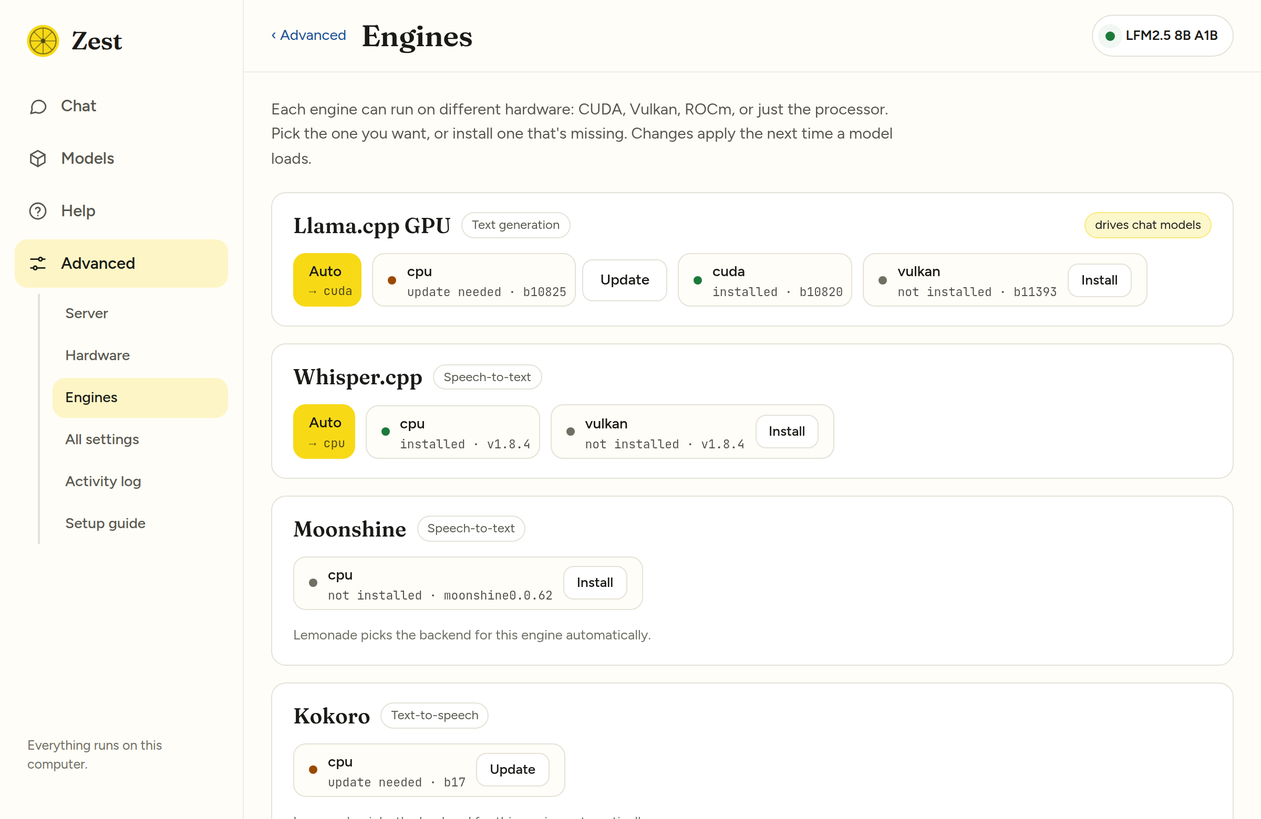
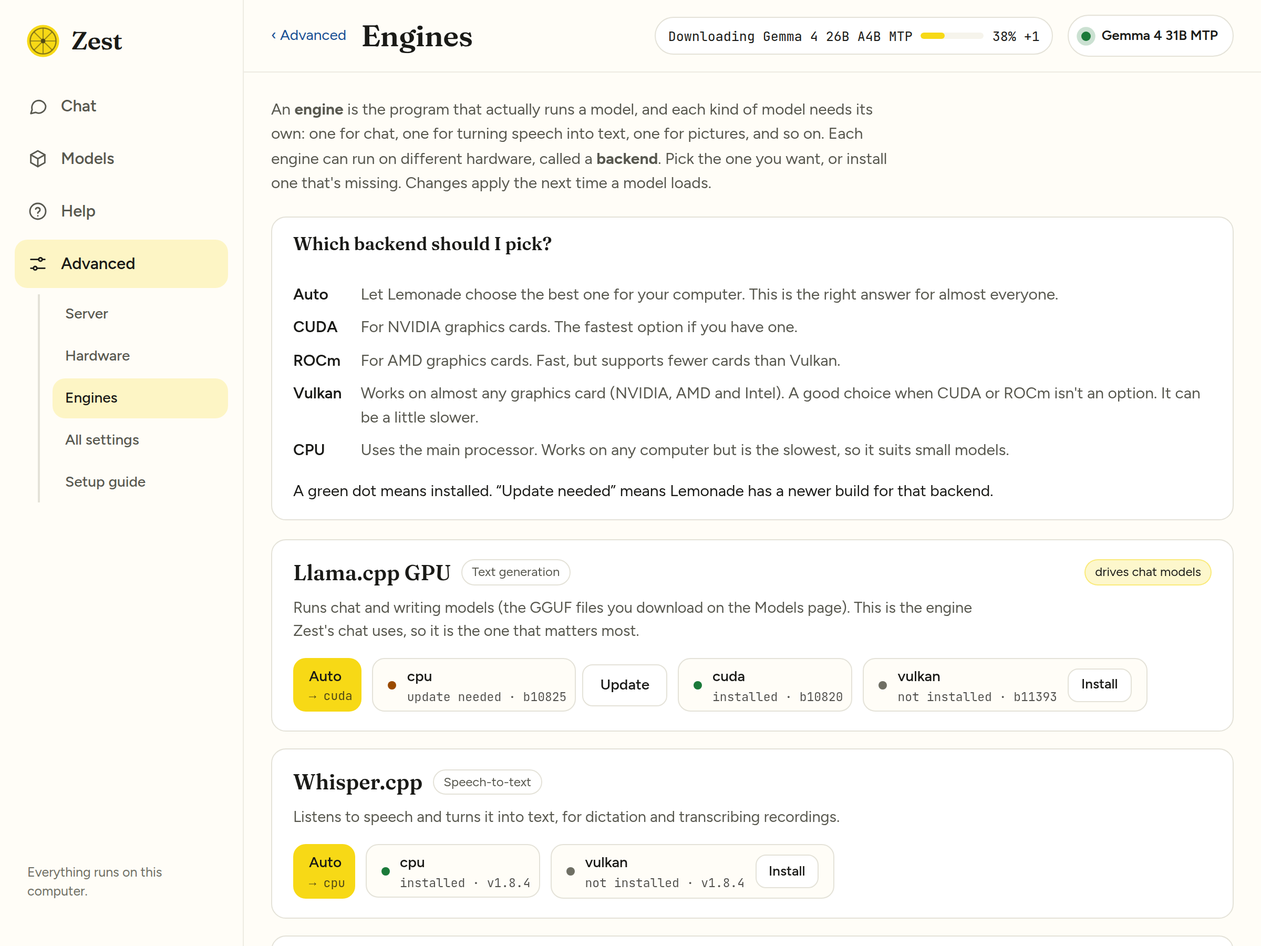
Zest 2.1.1: load/unload/reload/delete models, activity log on Server page, Engines explained
- Models: Load now, Reload and Unload on the card; delete from Details with confirmation
- Server page shows a clear message when the program behind it is out of date, instead of staying blank
- Activity log moved into the Server page
- Engines page explains what engines and backends are, with a plain guide
- README and screenshots updated

diff --git a/zest/index.html b/zest/index.html
@@ -250,6 +250,14 @@ dialog label{display:grid;gap:6px;font-size:13px;color:var(--muted)}
 .bkp header{display:flex;gap:10px;align-items:center;flex-wrap:wrap}
 .bkp h3{margin:0;font:600 20px var(--serif)}
 .bkp .grow{flex:1}
+.bkp .eng{margin:-4px 0 0;color:var(--muted);font-size:14.5px;max-width:70ch}
+.bkhelp{padding:0 20px;margin:0 0 18px}
+.bkhelp summary{cursor:pointer;list-style:none;min-height:48px;display:flex;align-items:center;font:600 17px var(--serif)}
+.bkhelp summary::-webkit-details-marker{display:none}
+.bkdl{display:grid;grid-template-columns:max-content 1fr;gap:8px 18px;margin:0 0 10px}
+.bkdl dt{font-weight:600}.bkdl dd{margin:0;color:var(--muted)}
+@media (max-width:640px){.bkdl{grid-template-columns:1fr;gap:2px}.bkdl dd{margin-bottom:8px}}
+.srvlog{margin-top:18px;display:grid;gap:12px}
 .bopts{display:flex;gap:10px;flex-wrap:wrap}
 .bo{display:inline-flex;align-items:center;gap:10px;min-height:48px;padding:6px 8px 6px 14px;border:1px solid var(--line);border-radius:12px;background:var(--bg);color:var(--text);font-size:14px;font-weight:550;text-align:left}
 button.bo:hover{border-color:var(--faint)}
@@ -504,6 +512,9 @@ details.aegrp>summary small{margin-left:auto;font:11.5px var(--mono);color:var(-
 .wfoot{text-align:center;font-size:13.5px}
 /* ---------- help, advanced, server ---------- */
 
+.mctl{display:flex;gap:8px;flex-wrap:wrap;margin-top:-6px}
+.mctl .btn{min-height:36px;padding:0 14px;font-size:13.5px}
+.btn.danger{color:var(--bad);border-color:currentColor}
 .pagebtns{display:flex;gap:10px;flex-wrap:wrap;align-items:center}
 #pickdlg{max-width:min(640px,calc(100vw - 32px));max-height:calc(100dvh - 32px)}
 #pickdlg form{padding:0;display:flex;flex-direction:column;max-height:calc(100dvh - 34px)}
@@ -602,7 +613,7 @@ h4.sub{margin:10px 0 0;font:600 13px var(--sans);color:var(--muted);text-transfo
 .logbar input:focus{border-color:var(--lemon)}
 .logbar label{display:flex;align-items:center;gap:8px;font-size:13px;color:var(--muted);min-height:40px}
 .logbar input[type=checkbox]{accent-color:var(--lemon);width:18px;height:18px}
-.log{font:12.5px/1.65 var(--mono);background:var(--surface);border:1px solid var(--line);border-radius:var(--radius);padding:14px 16px;overflow:auto;flex:1;min-height:300px;white-space:pre-wrap;overflow-wrap:anywhere}
+.log{font:12.5px/1.65 var(--mono);background:var(--surface);border:1px solid var(--line);border-radius:var(--radius);padding:14px 16px;overflow:auto;height:380px;white-space:pre-wrap;overflow-wrap:anywhere}
 .log .ln{display:block}.log .Warn{color:var(--warn)}.log .Error{color:var(--bad)}.log .Info{color:var(--muted)}
 .log .tag{color:var(--lemon-text)}
 
@@ -652,7 +663,6 @@ h4.sub{margin:10px 0 0;font:600 13px var(--sans);color:var(--muted);text-transfo
         <button data-view="hardware"><span>Hardware</span></button>
         <button data-view="backends"><span>Engines</span></button>
         <button data-view="settings"><span>All settings</span></button>
-        <button data-view="logs"><span>Activity log</span></button>
         <button data-view="setup"><span>Setup guide</span></button>
       </div>
     </div>
@@ -730,7 +740,17 @@ h4.sub{margin:10px 0 0;font:600 13px var(--sans);color:var(--muted);text-transfo
 
     <!-- BACKENDS -->
     <section class="view" id="v-backends"><div class="pad"><div class="wrap">
-      <p class="lede">Each engine can run on different hardware: CUDA, Vulkan, ROCm, or just the processor. Pick the one you want, or install one that's missing. Changes apply the next time a model loads.</p>
+      <p class="lede">An <b>engine</b> is the program that actually runs a model, and each kind of model needs its own: one for chat, one for turning speech into text, one for pictures, and so on. Each engine can run on different hardware, called a <b>backend</b>. Pick the one you want, or install one that's missing. Changes apply the next time a model loads.</p>
+      <details class="panel bkhelp" open><summary>Which backend should I pick?</summary>
+        <dl class="bkdl">
+          <dt>Auto</dt><dd>Let Lemonade choose the best one for your computer. This is the right answer for almost everyone.</dd>
+          <dt>CUDA</dt><dd>For NVIDIA graphics cards. The fastest option if you have one.</dd>
+          <dt>ROCm</dt><dd>For AMD graphics cards. Fast, but supports fewer cards than Vulkan.</dd>
+          <dt>Vulkan</dt><dd>Works on almost any graphics card (NVIDIA, AMD and Intel). A good choice when CUDA or ROCm isn't an option. It can be a little slower.</dd>
+          <dt>CPU</dt><dd>Uses the main processor. Works on any computer but is the slowest, so it suits small models.</dd>
+        </dl>
+        <p class="note">A green dot means installed. “Update needed” means Lemonade has a newer build for that backend.</p>
+      </details>
       <div id="bk"></div>
     </div></div></section>
 
@@ -741,7 +761,17 @@ h4.sub{margin:10px 0 0;font:600 13px var(--sans);color:var(--muted);text-transfo
     <section class="view" id="v-advanced"><div class="pad"><div class="wrap" id="advhub"></div></div></section>
 
     <!-- SERVER -->
-    <section class="view" id="v-server"><div class="pad"><div class="wrap" id="server"></div></div></section>
+    <section class="view" id="v-server"><div class="pad"><div class="wrap"><div id="server"></div>
+      <section class="panel srvlog" id="srvlog">
+        <div class="connhead"><h3>Activity log</h3><span class="help2" style="margin:0">What the helper has been doing. Useful when something goes wrong.</span></div>
+        <div class="logbar">
+          <input type="search" id="logq" placeholder="Filter log lines" aria-label="Filter log lines">
+          <label><input type="checkbox" id="logauto" checked> Follow</label>
+          <button class="btn" id="logref" type="button">Refresh</button>
+        </div>
+        <div class="log" id="log" tabindex="0" role="log"></div>
+      </section>
+    </div></div></section>
 
     <!-- SETUP -->
     <section class="view" id="v-setup"><div class="pad"><div class="wrap" id="setup"></div></div></section>
@@ -753,15 +783,6 @@ h4.sub{margin:10px 0 0;font:600 13px var(--sans);color:var(--muted);text-transfo
       <div id="settings"></div>
     </div></div></section>
 
-    <!-- LOGS -->
-    <section class="view" id="v-logs"><div class="pad" style="display:flex;flex-direction:column;flex:1;min-height:0"><div class="wrap" style="display:flex;flex-direction:column;flex:1;min-height:0">
-      <div class="logbar">
-        <input type="search" id="logq" placeholder="Filter log lines" aria-label="Filter log lines">
-        <label><input type="checkbox" id="logauto" checked> Follow</label>
-        <button class="btn" id="logref">Refresh</button>
-      </div>
-      <div class="log" id="log" tabindex="0" role="log"></div>
-    </div></div></section>
   </main>
 </div>
 
@@ -770,6 +791,14 @@ h4.sub{margin:10px 0 0;font:600 13px var(--sans);color:var(--muted);text-transfo
     <header><h3>Get a model from Hugging Face</h3></header>
     <div class="odbody" id="hfbody"></div>
     <div class="actions"><button type="button" class="btn" id="hfcancel">Cancel</button><button type="button" class="btn primary" id="hfdo" disabled>Download</button></div>
+  </form>
+</dialog>
+<dialog id="deldlg">
+  <form method="dialog">
+    <h3 id="delname">Delete this model?</h3>
+    <p id="deltext" style="margin:0;color:var(--muted)"></p>
+    <p class="errline" id="delerr" hidden></p>
+    <div class="actions"><button class="btn" value="cancel" formnovalidate>Keep it</button><button class="btn danger" value="ok" id="delok">Delete</button></div>
   </form>
 </dialog>
 <dialog id="instdlg">
@@ -821,6 +850,7 @@ const store = {
   set(k, v){ try{ localStorage.setItem(k, JSON.stringify(v)); }catch{} }
 };
 const ICON = {
+  reload:'<svg class="i" viewBox="0 0 24 24" style="width:15px;height:15px"><path d="M20 12a8 8 0 1 1-2.3-5.7M20 4v5h-5"/></svg>',
   copy:'<svg class="i" viewBox="0 0 24 24" style="width:15px;height:15px"><rect x="9" y="9" width="11" height="11" rx="2"/><path d="M5 15V6a2 2 0 0 1 2-2h8"/></svg>',
   trash:'<svg class="i" viewBox="0 0 24 24" style="width:16px;height:16px"><path d="M4 7h16M10 11v6M14 11v6M6 7l1 13h10l1-13M9 7V4h6v3"/></svg>',
   stop:'<svg class="i" viewBox="0 0 24 24"><rect x="6" y="6" width="12" height="12" rx="2" fill="currentColor"/></svg>',
@@ -853,8 +883,8 @@ async function api(path, opts={}){
 }
 
 /* ======================= navigation ======================= */
-const TITLES = {welcome:"Welcome", chat:"Chat", models:"Models", help:"Help", advanced:"Advanced", server:"Server", hardware:"Hardware", backends:"Engines", settings:"All settings", logs:"Activity log", setup:"Setup guide"};
-const ADV = ["advanced","server","hardware","backends","settings","logs","setup"];
+const TITLES = {welcome:"Welcome", chat:"Chat", models:"Models", help:"Help", advanced:"Advanced", server:"Server", hardware:"Hardware", backends:"Engines", settings:"All settings", setup:"Setup guide"};
+const ADV = ["advanced","server","hardware","backends","settings","setup"];
 function show(v){
   S.view = v;
   $$(".view").forEach(el => el.classList.toggle("active", el.id === "v-"+v));
@@ -875,8 +905,8 @@ function show(v){
   if(v === "settings") loadSettings();
   if(v === "setup" || v === "welcome") refreshSetup(true);
   $(".app").classList.toggle("focus", v === "welcome");
-  if(v === "logs") loadLogs();
   if(v === "server") srvShow();
+  if(v === "server" && pendingLogScroll){ pendingLogScroll = false; setTimeout(() => $("#srvlog").scrollIntoView({block:"start"}), 1200); }
   if(v === "help") renderHelp();
   if(v === "advanced") renderAdvanced();
 }
@@ -1293,19 +1323,23 @@ function cardHTML(m){
       : S.dlSupported === false ? `<button class="btn" data-copycmd="${esc(m.id)}">${ICON.copy} Copy download command</button>`
       : `<button class="btn primary" data-dl="${esc(m.id)}">Get it${m.size ? " · " + (m.size < 10 ? m.size.toFixed(1) : Math.round(m.size)) + " GB" : ""}</button>`;
   } else act = isLoaded ? `<button class="btn primary" data-chat="${esc(m.id)}">Chat with it</button>` : `<button class="btn primary" data-use="${esc(m.id)}">Use this one</button>`;
+  const busy = S.loadingModel === m.id;
+  const ctl = !m.downloaded ? "" : `<div class="mctl">${isLoaded
+    ? `<button class="btn" data-reload="${esc(m.id)}" ${S.loadingModel ? "disabled" : ""}>${ICON.reload} Reload</button><button class="btn" data-unload="${esc(m.id)}" ${S.loadingModel ? "disabled" : ""}>Unload</button>`
+    : `<button class="btn" data-load="${esc(m.id)}" ${S.loadingModel ? "disabled" : ""}>${busy ? "Loading…" : "Load now"}</button>`}</div>`;
   return `<article class="card ${isLoaded?"loaded":""}" data-id="${esc(m.id)}">
     <div class="ctop"><h3>${esc(friendly(m))}</h3>${isLoaded?'<span class="chip ok">In use</span>':m.downloaded?'<span class="chip">On this computer</span>':""}</div>
     <p class="what">${esc(whatFor(m))}</p>
     <div class="row"><span>${m.size ? `${sizeWord(m.size)} <span class="mono num">· ${m.size.toFixed(m.size<10?1:0)} GB</span>` : ""}</span></div>
     ${f ? `<div><div class="fit ${f.cls}" role="img" aria-label="${esc(f.note)}"><i style="width:${f.pct}%"></i></div><div class="fitnote ${f.cls}" style="margin-top:6px">${esc(f.note)}</div></div>` : ""}
-    <div class="act">${act}</div>
+    <div class="act">${act}</div>${ctl}
     <details class="more"><summary>Details</summary>
       <div class="mbody"><div class="tags">${tags}</div>
         <div class="mono mid">${esc(m.id)}</div>
         ${m.checkpoint ? `<div class="mono mid">${esc(String(m.checkpoint).split("\n")[0])}</div>` : ""}
         ${m.context_length ? `<div class="mid">Remembers up to ${fmtTok(m.context_length)} tokens of conversation</div>` : ""}
         ${savedLine(m)}
-        <div class="dact">${m.downloaded ? `<button class="btn" data-opts="${esc(m.id)}">${ICON.sliders} Settings for this model</button>${isLoaded ? `<button class="btn" data-unload="${esc(m.id)}">Stop using it</button>` : ""}` : ""}</div>
+        <div class="dact">${m.downloaded ? `<button class="btn" data-opts="${esc(m.id)}">${ICON.sliders} Settings for this model</button>${isLoaded ? `` : ""}<button class="btn danger" data-delete="${esc(m.id)}">${ICON.trash} Delete from this computer</button>` : ""}</div>
       </div></details>
   </article>`;
 }
@@ -1336,9 +1370,36 @@ $("#v-models").addEventListener("click", async e => {
   else if(t.dataset.canceldl) cancelDownload(t.dataset.canceldl);
   else if(t.dataset.use) useModel(t.dataset.use, true);
   else if(t.dataset.opts) openOptions(t.dataset.opts);
-  else if(t.dataset.unload){ t.disabled = true; try{ await api("/api/v1/unload", {method:"POST", headers:{"Content-Type":"application/json"}, body:JSON.stringify({model_name:t.dataset.unload})}); toast("Done. The model has been put away."); }catch(err){ toast(err.message); } await tick(); renderModels(); }
+  else if(t.dataset.unload){ t.disabled = true; try{ await api("/api/v1/unload", {method:"POST", headers:{"Content-Type":"application/json"}, body:JSON.stringify({model_name:t.dataset.unload})}); toast("Unloaded. The model's memory is free again."); }catch(err){ toast(err.message); } await loadModels(); await tick(); renderModels(); }
+  else if(t.dataset.reload || t.dataset.load) loadModelNow(t.dataset.reload || t.dataset.load);
+  else if(t.dataset.delete) askDelete(t.dataset.delete);
   else if(t.dataset.chat) useModel(t.dataset.chat, true);
   else if(t.dataset.copycmd){ navigator.clipboard?.writeText("lemonade pull " + t.dataset.copycmd); toast("Copied: lemonade pull " + t.dataset.copycmd); }
+});
+
+
+/* ======================= delete a model ======================= */
+let pendingDelete = null;
+function askDelete(id){
+  const m = S.models.find(x => x.id === id); if(!m) return;
+  pendingDelete = id; $("#delerr").hidden = true; $("#delok").disabled = false; $("#delok").textContent = "Delete";
+  $("#delname").textContent = "Delete " + friendly(m) + "?";
+  const size = m.size ? ` and frees about ${m.size < 10 ? m.size.toFixed(1) : Math.round(m.size)} GB of disk` : "";
+  $("#deltext").innerHTML = `This removes the model's files from this computer${size}. You can download it again later.${id === S.loaded ? " It is in use now, so Zest will unload it first." : ""}`;
+  $("#deldlg").showModal();
+}
+$("#deldlg form").addEventListener("submit", async e => {
+  if(e.submitter?.value !== "ok" || !pendingDelete) return;
+  e.preventDefault();
+  const id = pendingDelete, b = $("#delok"); b.disabled = true; b.textContent = "Deleting…";
+  try{
+    if(S.loaded === id) await api("/api/v1/unload", {method:"POST", headers:{"Content-Type":"application/json"}, body:JSON.stringify({model_name:id})});
+    await api("/api/v1/delete", {method:"POST", headers:{"Content-Type":"application/json"}, body:JSON.stringify({model_name:id})});
+    if(S.model === id) S.model = null;
+    $("#deldlg").close(); toast("Deleted " + friendly(S.models.find(x => x.id === id) || id));
+    await loadModels(); await tick(); syncModelSelect(); if(S.view === "models") renderModels();
+  }catch(err){ $("#delerr").textContent = "Couldn't delete it: " + err.message; $("#delerr").hidden = false; b.disabled = false; b.textContent = "Try again"; }
+  pendingDelete = null;
 });
 
 /* ======================= get a model from Hugging Face ======================= */
@@ -2147,11 +2208,10 @@ $("#help").addEventListener("click", async e => {
   if(b.dataset.hact === "restart"){ b.disabled = true; try{ await api("/ui/engine/restart", {method:"POST", headers:{"Content-Type":"application/json"}, body:"{}"}); toast("Restarting. This takes a few seconds."); }catch(err){ toast(err.message); } b.disabled = false; }
 });
 const ADV_CARDS = [
-  ["server", "Server", "Let other apps use your models, like opencode, Hermes or any chat app. See who is asking, live."],
+  ["server", "Server", "Let other apps use your models, like opencode, Hermes or any chat app. See who is asking, live, and read the activity log."],
   ["hardware", "Hardware", "Watch your graphics card fill up as models load, and choose which one Zest uses."],
   ["backends", "Engines", "Pick how models run on your computer, or install a faster option."],
   ["settings", "All settings", "Every setting Lemonade offers, searchable. Changes save as you make them."],
-  ["logs", "Activity log", "What the helper has been doing. Useful when something goes wrong."],
   ["setup", "Setup guide", "Update the helper, bring in models you already have, or connect to your own Lemonade."]
 ];
 function renderAdvanced(){
@@ -2161,6 +2221,7 @@ function renderAdvanced(){
 $("#advhub").addEventListener("click", e => { const c = e.target.closest("[data-view2]"); if(c) show(c.dataset.view2); });
 
 /* ======================= server page ======================= */
+let pendingLogScroll = false;
 const SRV = {g: null, reqs: new Map(), off: 0, tab: "opencode", showKey: false, filter: "all", open: new Set(), timer: null, fast: null, err: "", built: false, confirmKey: false};
 async function srvFetch(){
   try{
@@ -2170,11 +2231,16 @@ async function srvFetch(){
     SRV.reqs = new Map(r.requests.map(q => [q.id, q]));
     if(!SRV.built || changed) srvBuild();
     srvPaint();
-  }catch(e){ SRV.err = e.message; }
+  }catch(e){
+    SRV.err = e.message;
+    if(!SRV.built && !$("#srverr")) $("#server").innerHTML = `<div class="hero srvhero"><h2>The server <span class="hl">isn't answering</span></h2>
+      <p id="srverr">Zest couldn't read the server's status (${esc(e.message)}). If you have just updated Zest, quit it completely and open it again, because the page is newer than the program behind it. Zest keeps trying, so this clears by itself once it can connect.</p></div>`;
+  }
 }
 const srvNow = () => Date.now() / 1000 + SRV.off;
 function srvShow(){
-  SRV.reqs = new Map(); SRV.gsig = ""; SRV.built = false;
+  SRV.reqs = new Map(); SRV.gsig = ""; SRV.built = false; $("#server").innerHTML = `<div class="hero srvhero"><h2>Share your models with <span class="hl">other apps</span></h2><div class="prog ind"><i></i></div></div>`;
+  loadLogs();
   srvFetch();
   clearInterval(SRV.timer); SRV.timer = setInterval(() => { if(S.view !== "server"){ clearInterval(SRV.timer); clearInterval(SRV.fast); return; } if(!document.hidden) srvFetch(); }, 1000);
   clearInterval(SRV.fast); SRV.fast = setInterval(() => { if(S.view === "server" && !document.hidden) srvPaint(); }, 300);
@@ -2567,6 +2633,23 @@ async function loadBackends(){
   renderBackends();
 }
 const STATE_LABEL = {installed:"installed", update_required:"update needed", installable:"not installed"};
+const ENGINE_INFO = {
+  llamacpp: "Runs chat and writing models (the GGUF files you download on the Models page). This is the engine Zest's chat uses, so it is the one that matters most.",
+  whispercpp: "Listens to speech and turns it into text, for dictation and transcribing recordings.",
+  moonshine: "A small, quick speech-to-text engine that works well on ordinary processors.",
+  kokoro: "Reads text aloud with a natural voice (text-to-speech).",
+  openmoss: "Reads text aloud (text-to-speech) with a larger, more expressive voice model.",
+  "sd-cpp": "Makes pictures from a written description, and edits images.",
+  sdcpp: "Makes pictures from a written description, and edits images.",
+  thinksound: "Creates sound effects and audio to go with a description or a video.",
+  acestep: "Composes music from a written description.",
+  onnxruntime: "Runs small specialised models, such as ones that sort text into categories.",
+  trellis: "Builds 3D objects from a picture or a description.",
+  vllm: "A server for large models, aimed at powerful machines serving many requests at once.",
+  flm: "Runs models on AMD Ryzen AI processors (the NPU).",
+  ryzenai: "Runs models on AMD Ryzen AI processors (the NPU).",
+};
+const ENGINE_BY_MODALITY = {"Text generation": "Runs chat and writing models.", "Speech-to-text": "Turns speech into text.", "Text-to-speech": "Reads text aloud.", "Image generation": "Makes pictures.", "Audio generation": "Makes sound or music.", "3D generation": "Builds 3D objects.", "Text classification": "Sorts text into categories."};
 function renderBackends(){
   if(!S.bk) return;
   $("#bk").innerHTML = `<div class="bkgrid">` + S.bk.map(r => {
@@ -2581,6 +2664,7 @@ function renderBackends(){
     }).join("");
     return `<section class="bkp" data-recipe="${r.recipe}">
       <header><h3>${esc(r.name)}</h3><span class="chip">${esc(r.modality)}</span>${r.experimental?'<span class="chip">experimental</span>':""}<span class="grow"></span>${r.recipe==="llamacpp"?'<span class="chip lem">drives chat models</span>':""}</header>
+      <p class="eng">${esc(ENGINE_INFO[r.recipe] || ENGINE_BY_MODALITY[r.modality] || "A helper program that runs one kind of model.")}</p>
       <div class="bopts" role="${r.selectable?"radiogroup":"group"}" aria-label="${esc(r.name)} backend">${auto}${opts}</div>
       ${r.selectable ? "" : `<p class="note">Lemonade picks the backend for this engine automatically.</p>`}
     </section>`;
@@ -2628,9 +2712,9 @@ async function loadLogs(){
   }catch(e){ $("#log").textContent = "Couldn't read the log: " + e.message; }
 }
 $("#logq").addEventListener("input", loadLogs); $("#logref").addEventListener("click", loadLogs);
-setInterval(() => { if(S.view === "logs" && $("#logauto").checked && !document.hidden) loadLogs(); }, 3000);
+setInterval(() => { if(S.view === "server" && $("#logauto").checked && !document.hidden) loadLogs(); }, 3000);
 
-window.addEventListener("hashchange", () => { const h = location.hash.slice(1); if(TITLES[h] && h !== S.view) show(h); });
+window.addEventListener("hashchange", () => { let h = location.hash.slice(1); if(h === "logs"){ pendingLogScroll = true; h = "server"; } if(TITLES[h] && h !== S.view) show(h); });
 
 /* keep-alive so the desktop (AppImage) build knows the tab is still open */
 setInterval(() => fetch("/ui/ping", {method:"POST"}).catch(() => {}), 5000); fetch("/ui/ping", {method:"POST"}).catch(() => {});
@@ -2641,7 +2725,7 @@ setInterval(() => fetch("/ui/ping", {method:"POST"}).catch(() => {}), 5000); fet
   try{ SU.st = await api("/ui/setup"); S.bk = (await api("/ui/backends")).recipes; }catch{}
   if(!S.convs.length || !conv()) { if(S.convs.length) S.cur = S.convs[0].id; else { const c = {id:uid(), title:"New chat", messages:[], system:"", created:Date.now()}; S.convs.push(c); S.cur = c.id; } }
   renderConvs(); syncModelSelect(); renderStatus(); setSendState();
-  const h = location.hash.slice(1);
+  let h = location.hash.slice(1); if(h === "logs"){ pendingLogScroll = true; h = "server"; }
   show(TITLES[h] && h !== "welcome" ? h : (SU.st && !SU.st.setup_done ? "welcome" : "chat"));
   renderThread();
   grow();

diff --git a/zest/server.py b/zest/server.py
@@ -34,7 +34,7 @@ import store       # noqa: E402
 import util        # noqa: E402
 from util import cached, invalidate, run   # noqa: E402
 
-VERSION = "2.1.0"
+VERSION = "2.1.1"
 _last_ping = {"t": None}
 FORCED = {"addr": None}           # set by --lemonade: use exactly that server and skip the setup screen
 LOOPBACK_ONLY = {"on": True}

diff --git a/README.md b/README.md
@@ -61,12 +61,12 @@ Zest is organised around four places in the left-hand menu: **Chat**, **Models**
 - **Models** shows what you can run in plain words: a friendly name, what it is good for, a size word, and one sentence on whether it will run comfortably on your computer. The fit comes from the memory that is actually *free* on your graphics cards right now, so you can tell before loading whether another program is in the way. The default view, **For you**, hides models that would not run well. A **Details** fold on each card holds the technical names and **Settings for this model**: context window, backend, devices and the llama-server options (flash attention, cache precision, expert layers in system RAM, GPU splitting, thinking, speculative decoding) as tick boxes and dropdowns with plain explanations, checked against your own `llama-server` before you load.
 - **Context window: 128k by default.** The built-in Lemonade starts with a 128k (131,072-token) context window, a good threshold for usefulness in long chats and agentic work. Zest sets it once, so changing it later in **All settings** sticks, and any model can have its own size under **Settings for this model**. A bigger window needs more graphics memory. A Lemonade you run yourself keeps its own default.
 - **How do I choose a model?** A button on Models (and an entry in Help) explains how to pick: will it fit, what is it for, how much it needs to remember. It then links to places to compare models: Luke's Dev Lab, Artificial Analysis, LMArena, Aider, the Berkeley Function-Calling Leaderboard, SWE-bench, LiveBench, BenchLM, LLM Stats, r/LocalLLaMA and the Level1Techs forum. Benchmarks only capture so much, measure narrow use cases and can often be gamed, so the dialog says plainly that the best way is to try a few models yourself.
+- **Load, unload, reload and delete.** Every downloaded model has **Load now** (or **Reload** and **Unload** while it is in use) right on its card, so you can free graphics memory or pick up new settings without leaving the page. **Delete from this computer** is under **Details**; it asks first, says how much disk it frees, unloads the model if it is running, and you can download it again later.
 - **Get from Hugging Face** takes a link or `org/name`, lists the GGUF versions in the repository with their sizes and a plain label (for example "A good balance"), marks which ones fit your computer, and hands the download to Lemonade.
-- **Advanced > Server** lets other apps use your models (see below), with a live picture of what they ask for.
+- **Advanced > Server** lets other apps use your models (see below), with a live picture of what they ask for. The address and key to paste into those apps are at the top, and the Lemonade **activity log** (filter and follow mode) sits at the bottom of the same page.
 - **Advanced > Hardware** shows every device llama.cpp can see as a live VRAM tank with utilisation, temperature, power, a short history, and which processes are holding its memory. Pick which devices to use and put them in order, then apply.
-- **Advanced > Engines** lists every Lemonade engine (llama.cpp, Whisper.cpp, StableDiffusion.cpp and more) with the backends each supports (CUDA, Vulkan, ROCm, CPU). Choose one per engine, or install and update missing ones.
+- **Advanced > Engines** explains what an engine is (the program that runs one kind of model) and what each backend means (CUDA, ROCm, Vulkan, CPU), then lists every Lemonade engine (llama.cpp, Whisper.cpp, StableDiffusion.cpp and more) with the backends each supports (CUDA, Vulkan, ROCm, CPU). Choose one per engine, or install and update missing ones.
 - **Advanced > All settings** edits everything in Lemonade's own configuration, searchable, with a reset-to-default for every value.
-- **Advanced > Activity log** tails the Lemonade log with a filter and follow mode.
 - A light theme only, keyboard-friendly, and it works on a phone-width screen. The fonts (Figtree, Fraunces and JetBrains Mono, all under the SIL Open Font License) are built into the page, so nothing is fetched from the internet.
 
 ## Use your models in other apps
@@ -125,13 +125,17 @@ While an app is working you see a glass filling up, a lane per app for the last 
 
 ![Request list](docs/screenshots/server-requests.png)
 
+The Lemonade activity log is at the bottom of the same page.
+
+![Activity log on the Server page](docs/screenshots/server-log.png)
+
 ### Hardware
 Select GPUs and set their order. Each card shows free VRAM, utilisation, temperature, power and which processes hold memory. Nothing changes until you press **Apply**.
 
 ![Hardware](docs/screenshots/hardware.png)
 
 ### Engines
-Pick a backend per engine, or install and update the ones you need.
+Each engine says in plain words what it does, and a short guide explains which backend to pick. Choose one per engine, or install and update the ones you need.
 
 ![Engines](docs/screenshots/backends.png)
 
@@ -139,10 +143,6 @@ Pick a backend per engine, or install and update the ones you need.
 Lemonade's own configuration, searchable and saved as you edit.
 
 ![All settings](docs/screenshots/settings.png)
-
-### Activity log
-
-![Activity log](docs/screenshots/logs.png)
 
 ### Setup guide
 The full set of choices behind the welcome steps: which Lemonade to use, backends, where models live, and updates.
